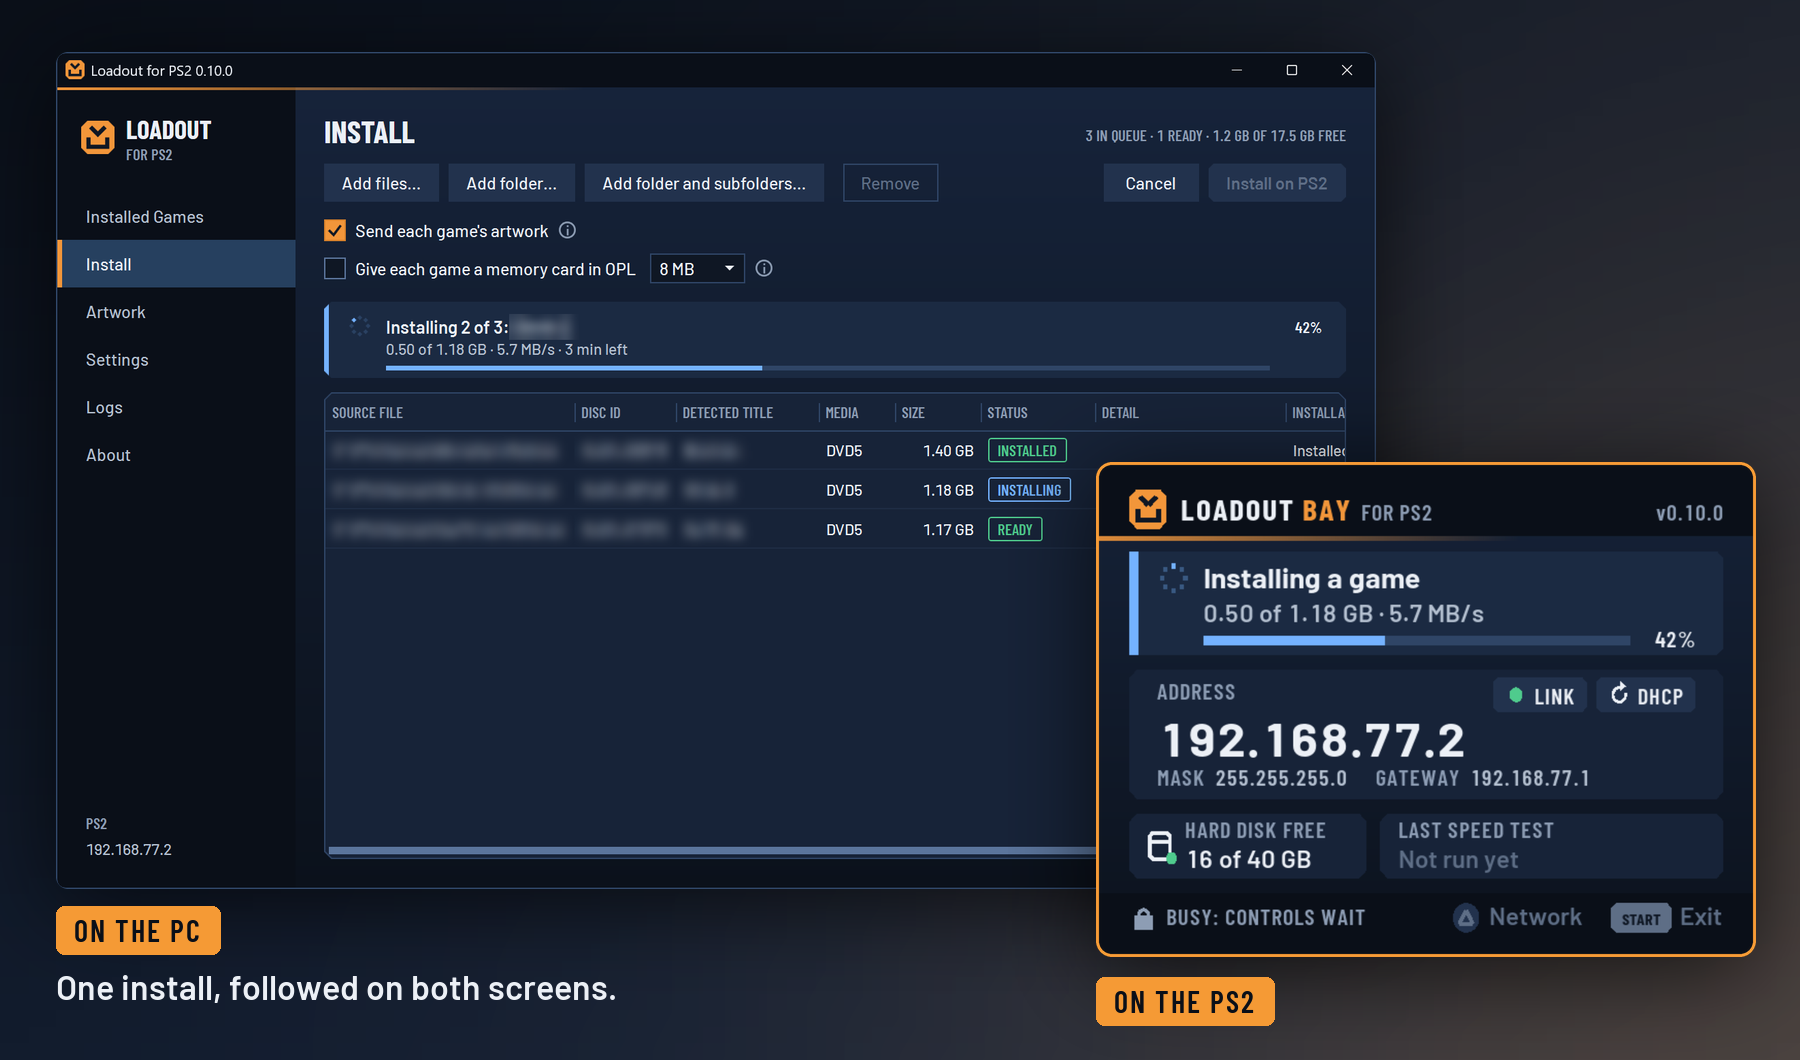
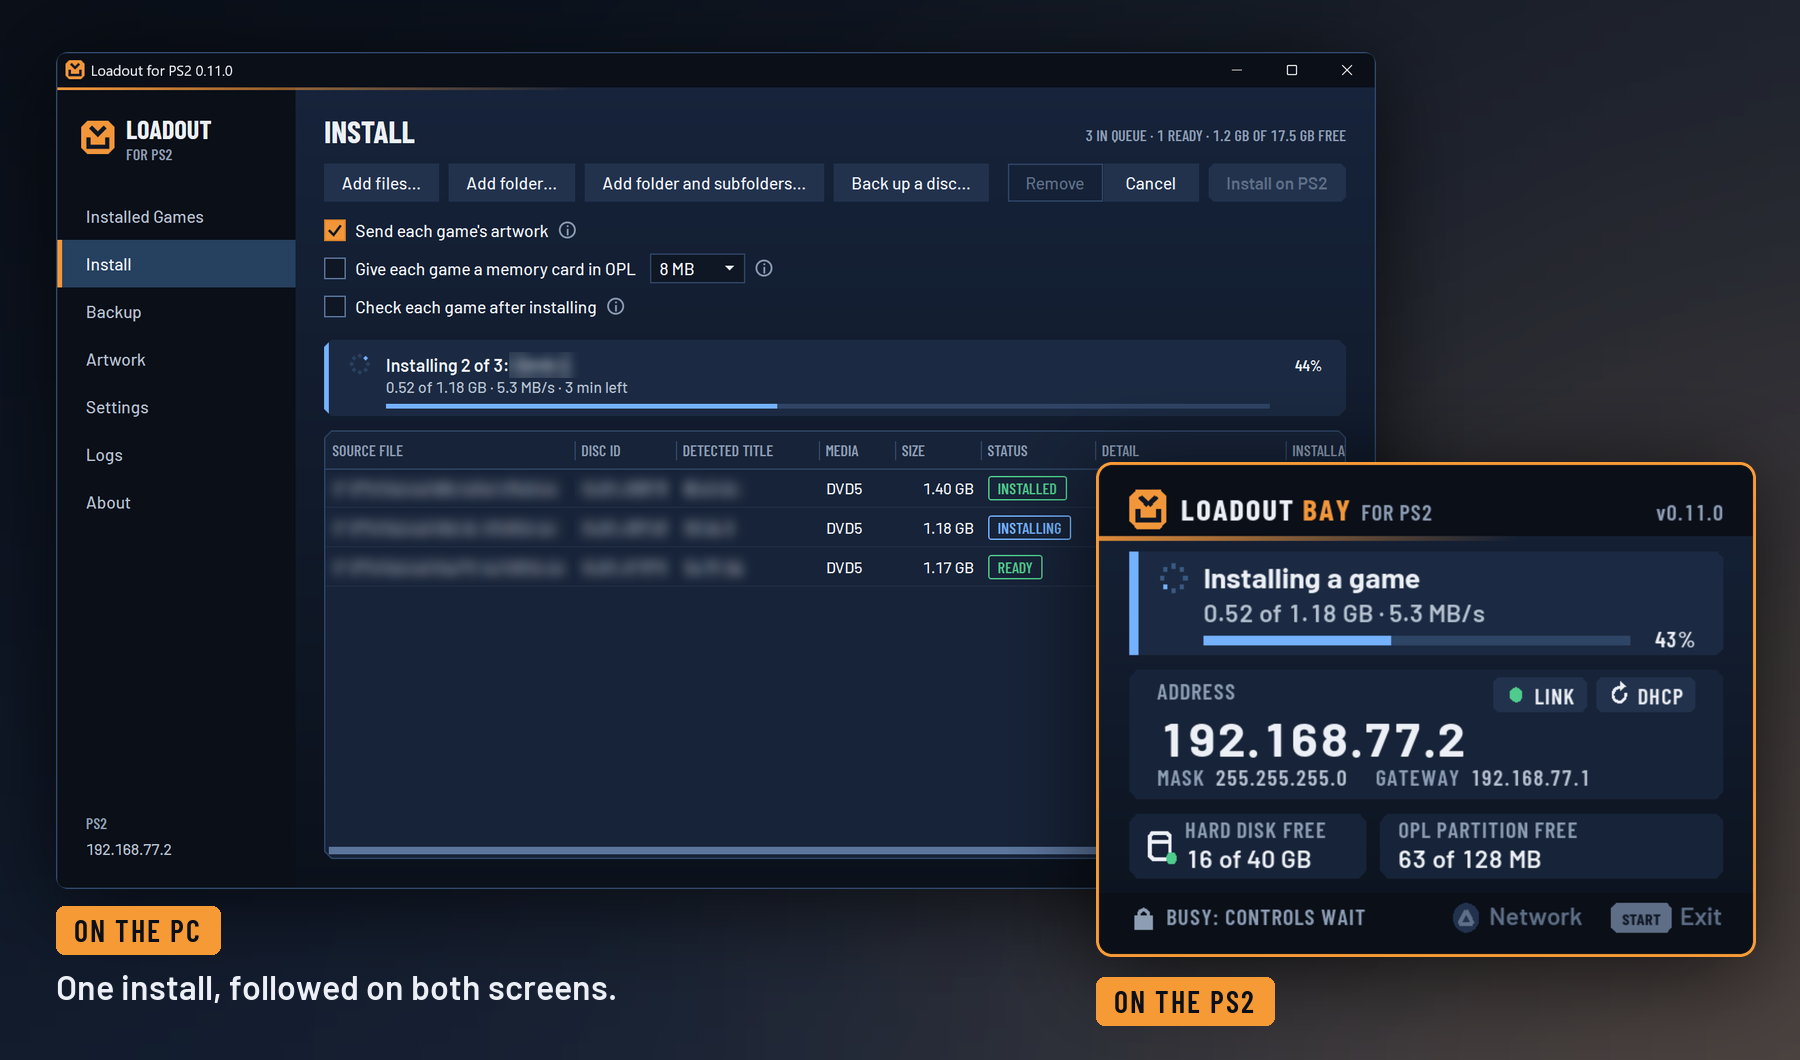
Release 0.11.0: date the changelog, drop the -dev suffix, and show 0.11.0, the Backup page's copies and conversions, and Loadout Bay's OPL partition box in the readme's images. The readme says OPL's 128 MB partition holds about ten 8 MB memory cards beside the artwork and Loadout Bay, as ten filled 

diff --git a/README.md b/README.md
@@ -10,7 +10,7 @@ Loadout has two parts:
 Both parts share one version number.
 
 <!-- showcase:start -->
-![Loadout for PS2 on Windows and Loadout Bay on the PS2, showing the same install at 42%](docs/images/hero.png)
+![Loadout for PS2 on Windows and Loadout Bay on the PS2, showing the same install](docs/images/hero.png)
 
 ### Back up your discs
 
@@ -65,12 +65,12 @@ Loadout is a prerelease. It writes to your PS2's hard disk, and so far it has be
 
 ## Get started
 
-1. Start OPL on the PS2, set **Settings → HDD Device Start Mode** so it lists games from the hard disk, and open that list once. This makes the partition that artwork, game settings, and memory cards go in. OPL makes it 128 MB: room for about a dozen 8 MB memory cards beside the artwork, and it can't safely be made bigger later. For more, create a partition named `+OPL` of the size you want with wLaunchELF's HDD Manager before OPL first opens that list, and OPL uses it instead. 1 GB holds cards for about a hundred games.
+1. Start OPL on the PS2, set **Settings → HDD Device Start Mode** so it lists games from the hard disk, and open that list once. This makes the partition that artwork, game settings, and memory cards go in. OPL makes it 128 MB: room for about ten 8 MB memory cards beside the artwork and Loadout Bay, and it can't safely be made bigger later. For more, create a partition named `+OPL` of the size you want with wLaunchELF's HDD Manager before OPL first opens that list, and OPL uses it instead. 1 GB holds cards for about a hundred games.
 2. Download both zips from the [releases page](https://github.com/IVazharov/loadout-ps2/releases).
 3. Copy `loadout-bay.elf` to the USB drive and start it with your homebrew launcher, such as wLaunchELF. Its screen shows the PS2's address. This is the only time Loadout Bay needs the USB drive.
 4. Unzip Loadout anywhere you can write and run `LoadoutPS2.exe`. It keeps its settings and caches next to the executable. It's signed, and runs with Smart App Control on. The certificate is new, so Windows may still warn you about it.
 5. In Settings, press **Find Bay** or enter the address from the TV.
-6. Put Loadout Bay on the hard disk: on **Installed Games**, press **Connect**, then **Put Loadout Bay on the hard disk…**. It goes into OPL's partition, and in OPL, with **Settings → Applications Start Mode** on, it is in the Apps menu. Start it from there from now on, with no USB drive. This is the setup Loadout is made for: after Loadout updates itself, its next Connect brings the Loadout Bay on the hard disk to the same version, asking first if you turned off the update check in Settings. It needs about 3.5 MB in OPL's partition for that, the old version's backup `loadout-bay.elf.bak` counted, as it goes when its room is needed; when there is less, Connect says so and leaves Loadout Bay as it is. [From the hard disk](ps2/README.md#from-the-hard-disk) has the details, such as a fixed address.
+6. Put Loadout Bay on the hard disk: on **Installed Games**, press **Connect**, then **Put Loadout Bay on the hard disk…**. It goes into OPL's partition, and in OPL, with **Settings → Applications Start Mode** on, it is in the Apps menu. Start it from there from now on, with no USB drive. This is the setup Loadout is made for: after Loadout updates itself, its next Connect brings the Loadout Bay on the hard disk to the same version, asking first if you turned off the update check in Settings. That needs about 3.5 MB in OPL's partition, counting the old version's backup, `loadout-bay.elf.bak`, which goes when its room is needed; with less, Connect says so and leaves Loadout Bay as it is. [From the hard disk](ps2/README.md#from-the-hard-disk) has the details, such as a fixed address.
 7. On **Install**, add iso, bin and cue, or chd files, then press **Install on PS2**.
 8. Start OPL on the PS2. It lists the games from its hard disk section.
 

diff --git a/CHANGELOG.md b/CHANGELOG.md
@@ -2,7 +2,7 @@
 
 Notable changes to Loadout and Loadout Bay. The format follows [Keep a Changelog](https://keepachangelog.com/en/1.1.0/). Until 1.0.0, every release is a prerelease and behavior can change between minor versions. This changelog has a section for each release.
 
-## Unreleased
+## 0.11.0 - 2026-11-18
 
 ### Added
 
